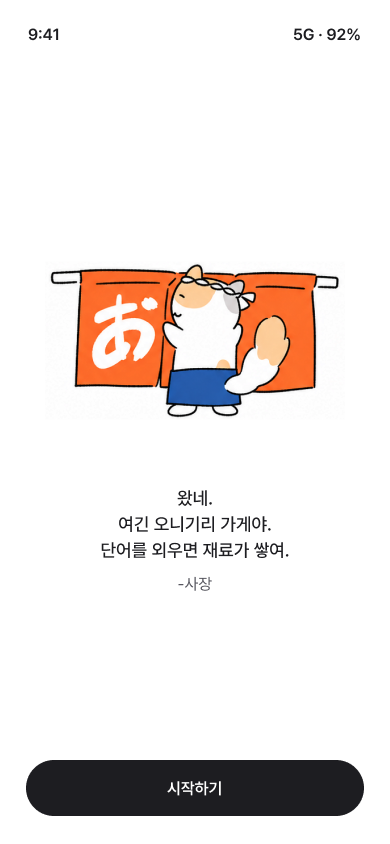
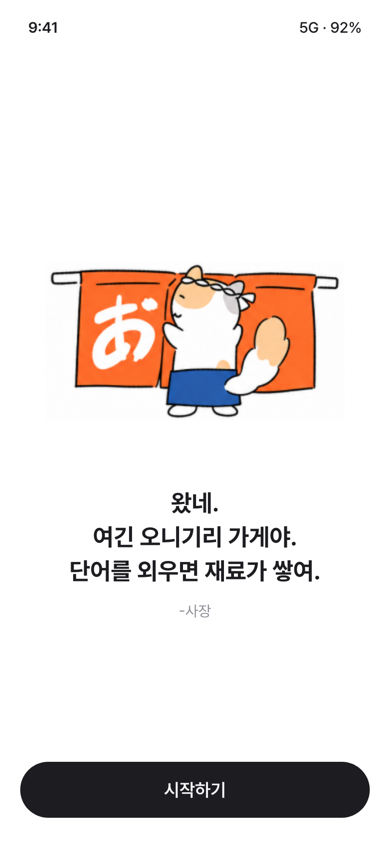
spec: screens 참조 이미지 신규 일러스트 반영(01·02·07) + 캡처용 clean 모드
Figma 프레임 렌더가 구 일러스트로 캐시돼, 최종 반영본은 라이브 HTML(정합 완료)에서
헤드리스 캡처해 재익스포트.

- screens/01-start·02-guide·07-finish → 신규 일러스트(사장/생각 고양이/독서 고양이)·잉크 CTA 반영(390×844)
- app.js·styles.css: ?clean 파라미터 시 dev badge 숨김 + 데스크톱 래퍼(중앙정렬·그림자) 제거
  → 핸드오프용 clean 캡처 가능

diff --git a/handoff/redesign-2026-08/onboarding/app.js b/handoff/redesign-2026-08/onboarding/app.js
@@ -327,7 +327,10 @@ function render(){
       default:              html = renderIntro();
     }
   }
-  app.innerHTML = html + `<div class="dev-badge">step: ${state.currentPage === 'home' ? 'home' : state.onboardingStep}${state.isReceiptOpen ? ' · receipt' : ''}</div>`;
+  /* dev badge — 핸드오프 캡처용으로 ?clean 시 숨김 + 데스크톱 래퍼(중앙정렬·그림자) 제거 */
+  const showDevBadge = !new URLSearchParams(location.search).has('clean');
+  document.documentElement.classList.toggle('capture', !showDevBadge);
+  app.innerHTML = html + (showDevBadge ? `<div class="dev-badge">step: ${state.currentPage === 'home' ? 'home' : state.onboardingStep}${state.isReceiptOpen ? ' · receipt' : ''}</div>` : '');
   isTransitioning = false;
 
   /* 화면5: 진입 시 particle(Motion) + 버튼 fill(Interaction) 1회 자동 재생.

diff --git a/handoff/redesign-2026-08/onboarding/styles.css b/handoff/redesign-2026-08/onboarding/styles.css
@@ -244,5 +244,9 @@ body{ background:#c9c6c1; font-family:'Pretendard JP',-apple-system,BlinkMacSyst
 .home-nav .tab svg{ width:26px; height:26px; }
 .home-nav .tab.on{ color:var(--primary); }
 
+/* 핸드오프 캡처 모드(?clean) — 데스크톱 래퍼 제거해 390×844 디바이스만 flush 렌더 */
+html.capture, html.capture body{ background:#fff; display:block; }
+html.capture .device{ margin:0; box-shadow:none; max-width:none; }
+
 /* dev badge (연습용) */
 .dev-badge{ position:absolute; left:8px; bottom:8px; z-index:80; font-size:10px; color:var(--mute); background:rgba(255,255,255,.7); padding:2px 6px; border-radius:6px; pointer-events:none; }
